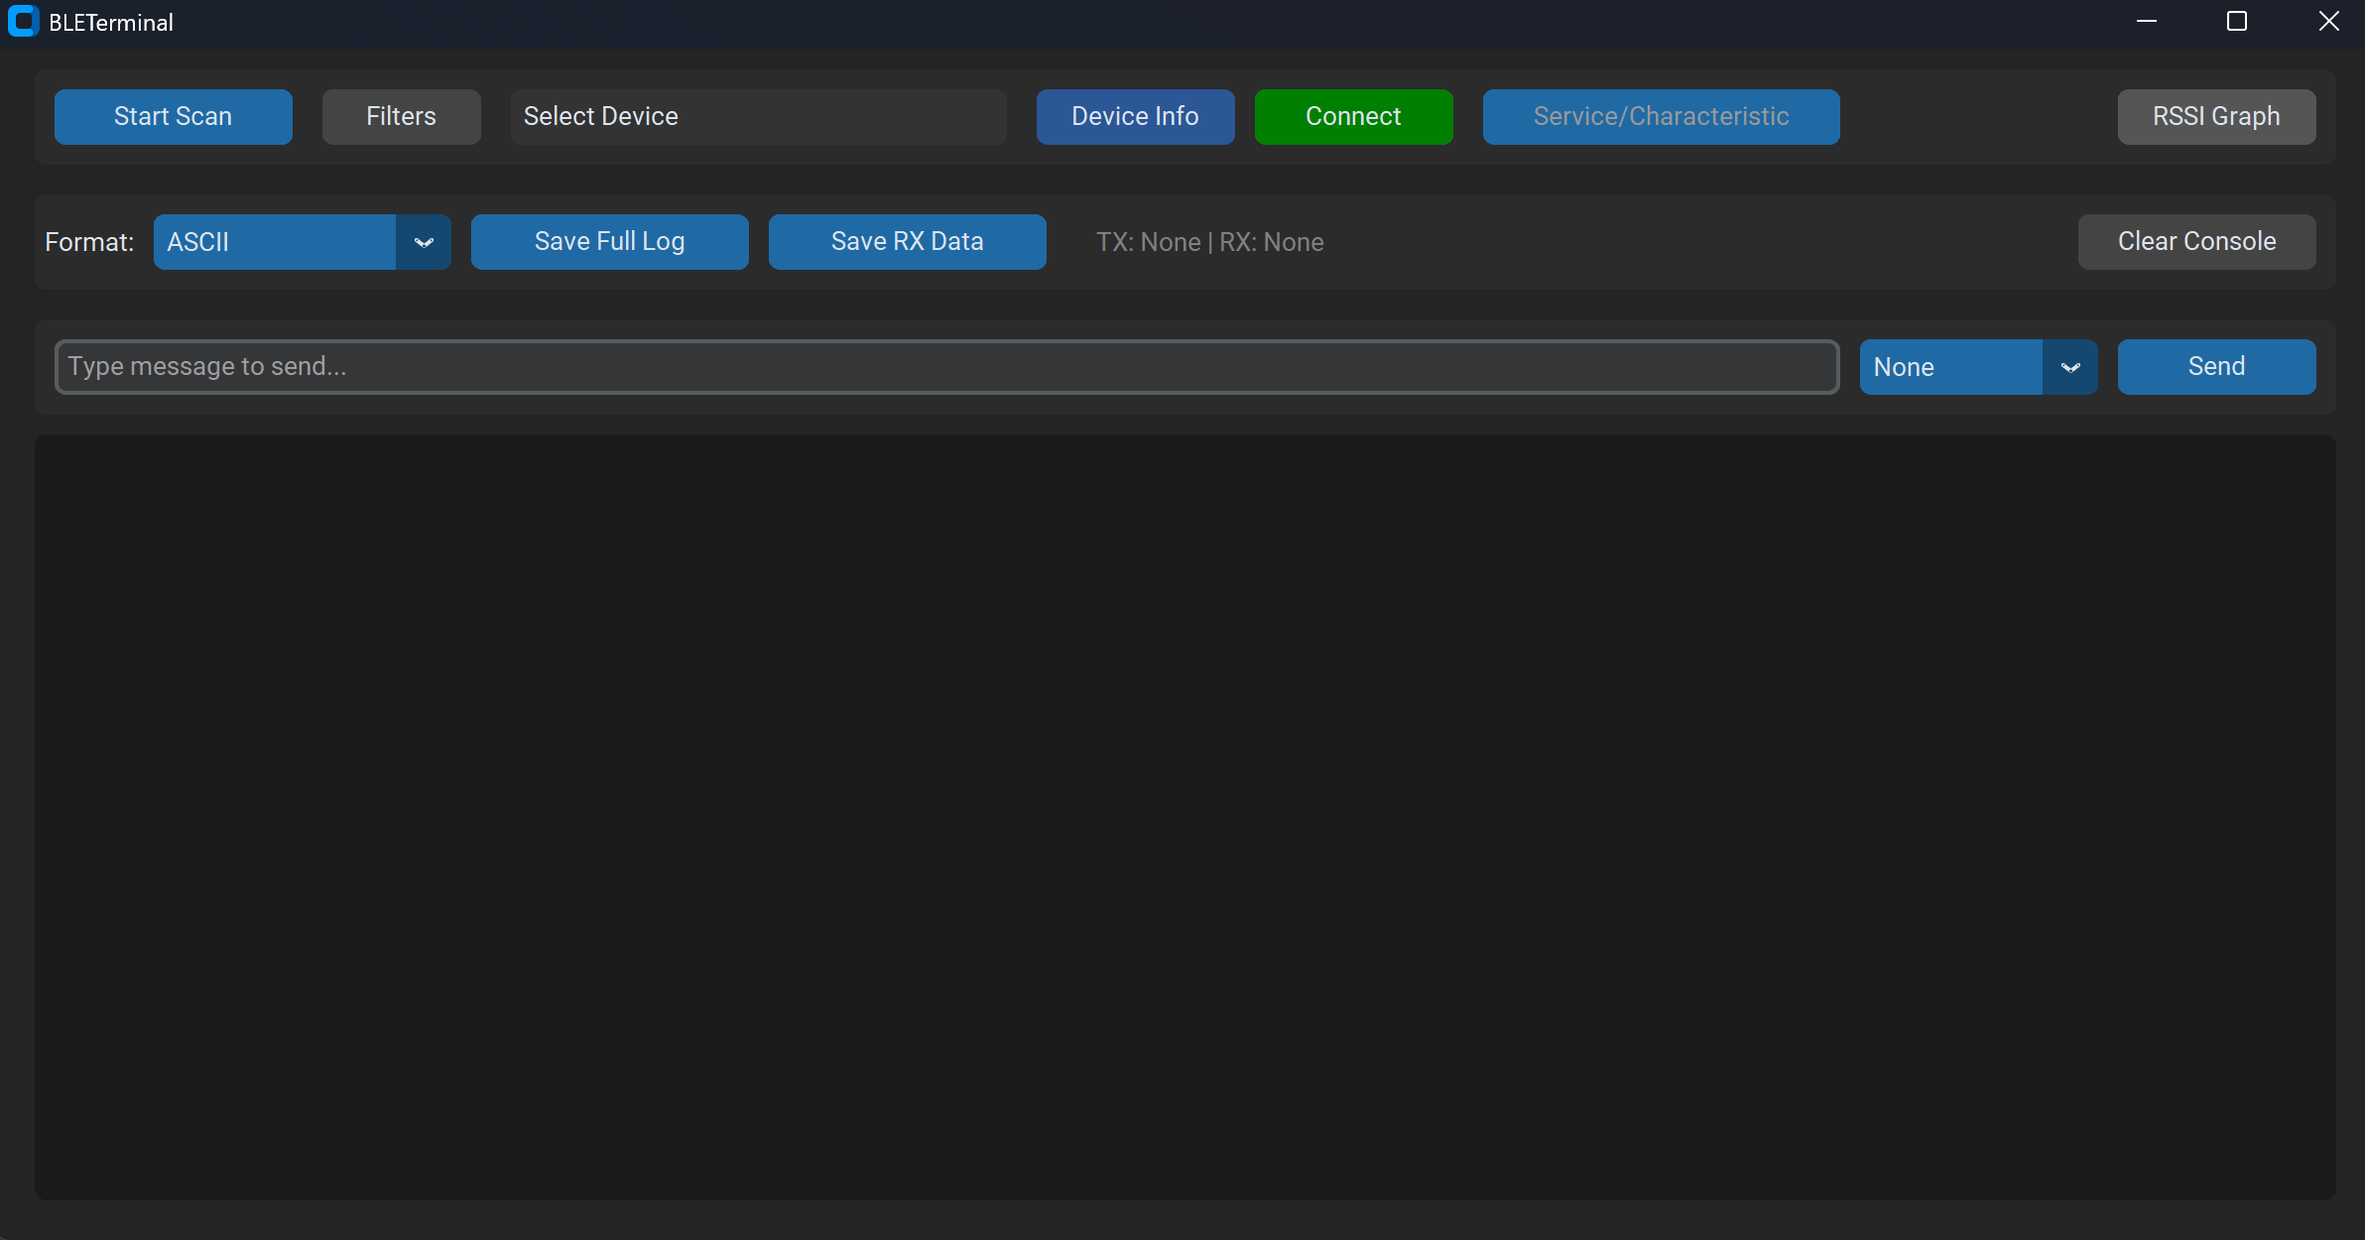
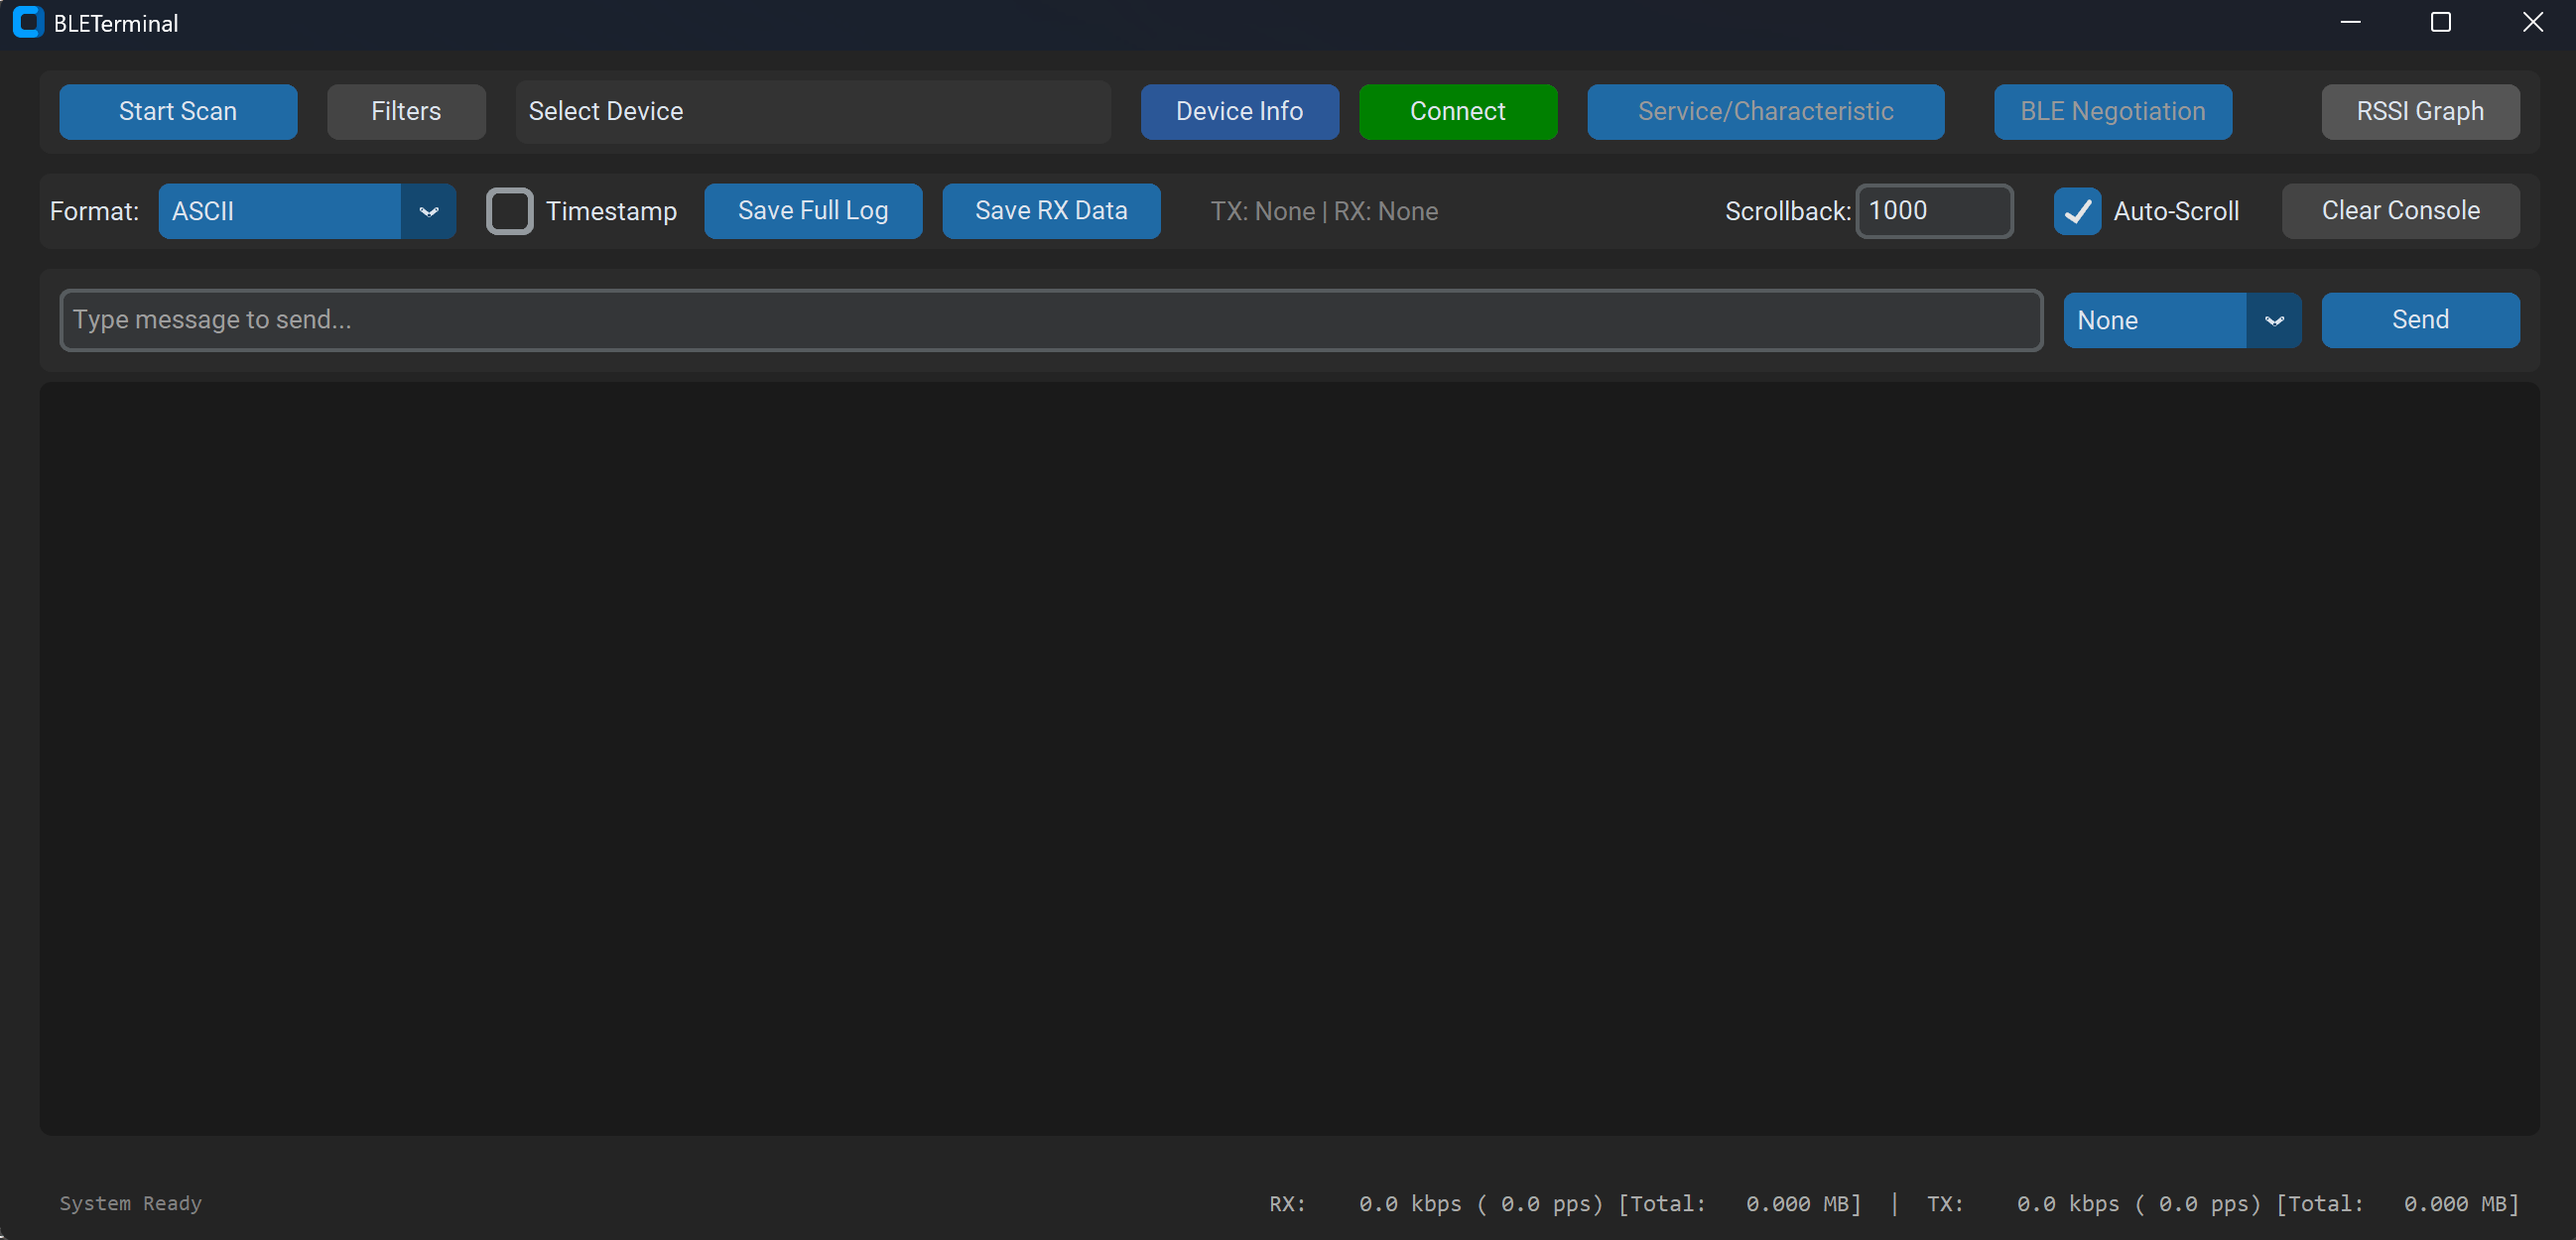
3.2.0

diff --git a/README.md b/README.md
@@ -1,20 +1,25 @@
 # BLETerminal
 ![BLETerminal](Pics/BLETerminal.png)
 ## Version
-2.0.1
+3.2.0
 
 ## Description
-The BLETerminal is a terminal for connecting to BLE devices.
+The BLETerminal is a BLE server terminal for connecting to BLE devices.
 
 ## Features
 - Service/Characteristic selection
 - Filter scanned BLE devices
 - Multiple display format options: ASCII/UTF-8/Hex (Compact)/Hex/Binary
-- Multiple save options: Save full log/Save RX data
+- Optional timestamping
+- Data logging: Save full log/Save RX data only
 - Transmit data with EOL options
+- Setting console's 
 - Clear Console
 - RSSI graph
 - Device information of scanned devices is now available
+- BLE negotiation settings
+- BLE metrics: Throughput, packets per second, and total volume
+
 
 ## Usage
 1. Open BLETerminal.exe
